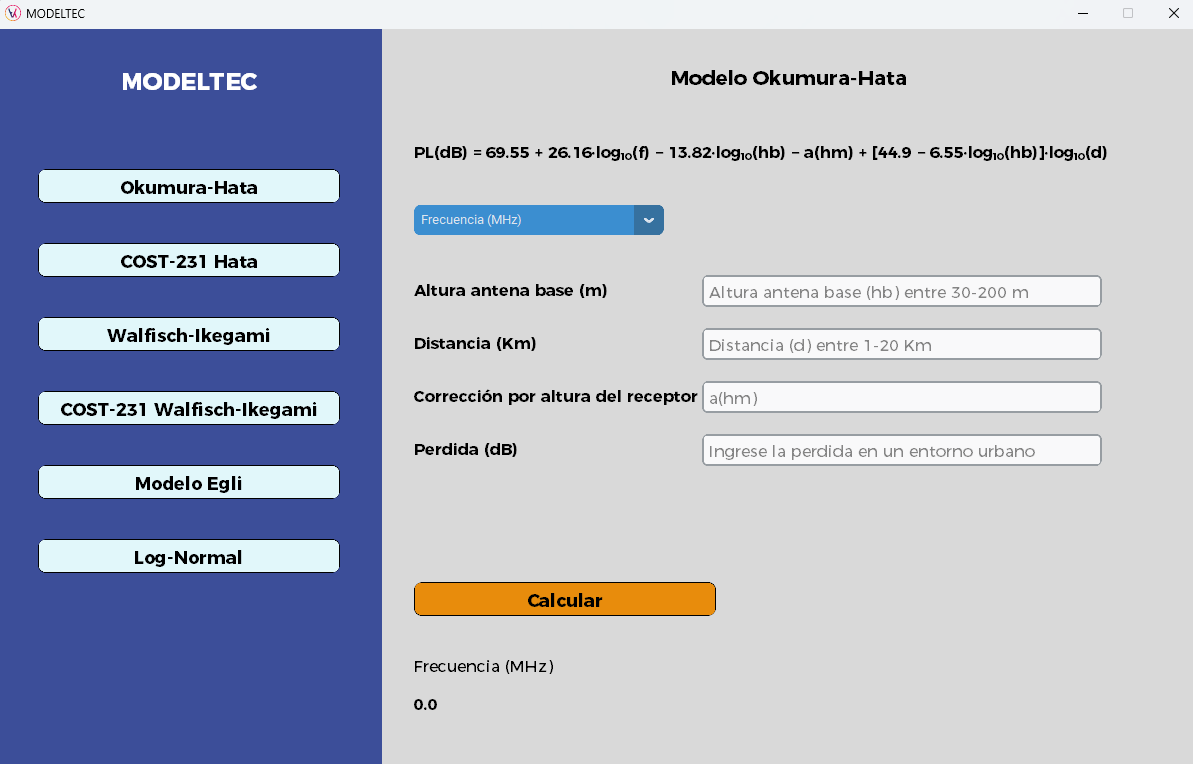
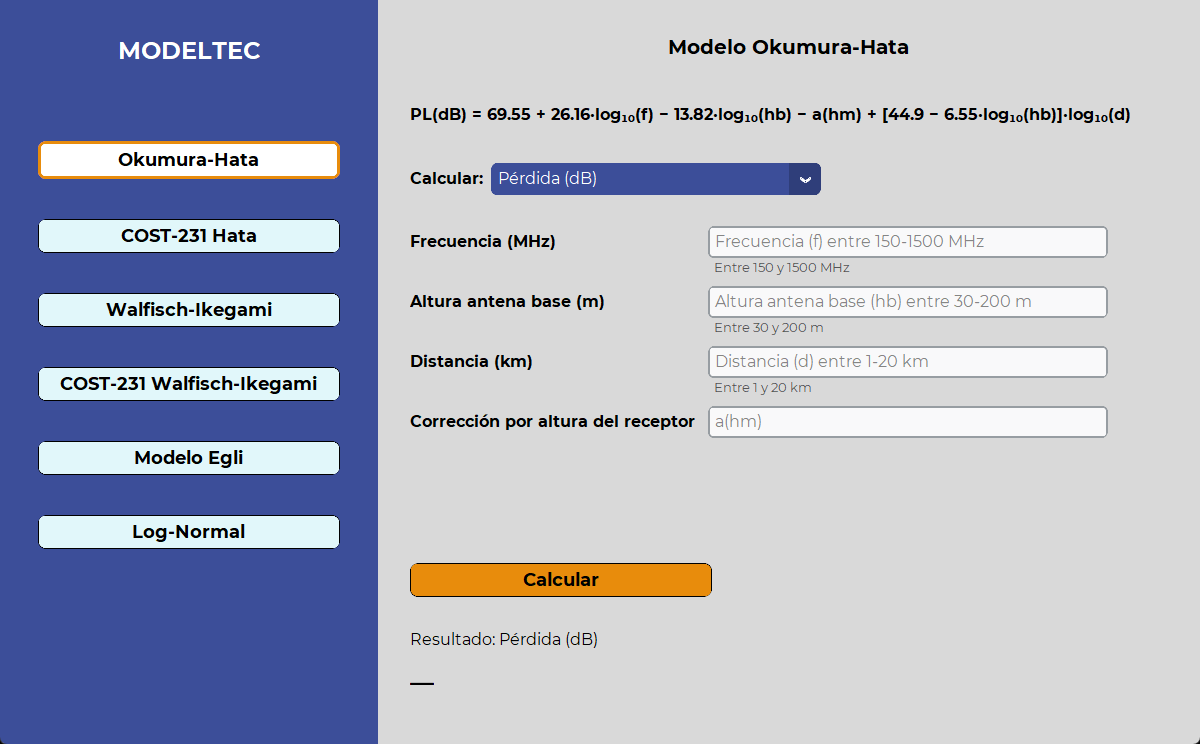
Documenta el proyecto: README completo, .gitignore y captura actualizada

Changed region(s): [[0.0, 0.0, 1.0, 1.0], [0.9925, 0.9892, 1.0, 1.0]]

diff --git a/README.md b/README.md
@@ -8,47 +8,96 @@
 
 ## 📡 Descripción
 
-Este proyecto implementa diversos **modelos de propagación de ondas** para telecomunicaciones, incluyendo:
+**MODELTEC** es una aplicación de escritorio en Python que calcula la **pérdida de trayecto** (*path loss*) de una señal de radio con seis modelos de propagación usados en telecomunicaciones. Pensada para estudiantes, investigadores y profesionales que trabajan en diseño y análisis de redes inalámbricas.
 
-- COST-231 Hata  
-- Walfisch-Ikegami  
-- Egli  
-- Log-Normal  
-- Okumura  
-
-La aplicación permite calcular pérdidas de propagación en diferentes escenarios, facilitando el análisis y comparación entre modelos. Está pensado para estudiantes, investigadores y profesionales que trabajan en diseño y análisis de redes inalámbricas.
-
----
-
-## 🎯 Objetivos
-
-- Proporcionar una herramienta práctica para estudiar modelos de propagación.
-- Facilitar la comparación entre diferentes modelos mediante una interfaz gráfica amigable.
-- Permitir el análisis visual con gráficas y reportes automáticos.
-- Servir como base para aprender Python aplicado a telecomunicaciones y GUI.
-
----
-
-## 🚀 Funcionalidades
-
-- Cálculo automático según modelo seleccionado.
-- Interfaz gráfica interactiva con CustomTkinter.
-- Soporte para distintas variables (frecuencia, distancia, altura, etc).
-- Validación básica de entradas.
-- Visualización de resultados en pantalla.
-
----
-
-## 📸 Capturas de pantalla
+Además de calcular la pérdida (PL), cada modelo permite **despejar cualquier otra variable** (frecuencia, distancia, altura de antena…) a partir de la pérdida conocida.
 
 ![Pantalla principal](./screen.png)
 
 ---
 
+## 📶 Modelos incluidos
+
+| Modelo | Fórmula | Rango de validez en la app |
+|---|---|---|
+| **Okumura-Hata** | `69.55 + 26.16·log f − 13.82·log hb − a(hm) + (44.9 − 6.55·log hb)·log d` | f 150–1500 MHz · hb 30–200 m · d 1–20 km |
+| **COST-231 Hata** | `46.3 + 33.9·log f − 13.82·log hb − a(hm) + (44.9 − 6.55·log hb)·log d + C` | f 1500–2000 MHz · hb 30–200 m · d 1–20 km · C 0–3 dB |
+| **Walfisch-Ikegami** | `PL = L₀ + Lᵣₜₛ + Lₘₛd` | Suma de los tres términos (los ingresa el usuario) |
+| **COST-231 Walfisch-Ikegami** (línea de vista) | `42.6 + 26·log d + 20·log f` | f 800–2000 MHz · d 0.02–5 km |
+| **Egli** | `K + 20·log f + 40·log d − 20·log ht − a·log hr` | f 30–3000 MHz · ht 3–200 m · hr 1–50 m · d 0.1–20 km |
+| **Log-Normal** | `PL(d₀) + 10·n·log(d/d₀) + Xσ` | d₀ 0.01–1 km · d 0.01–20 km · n 1–6 · Xσ ±20 dB |
+
+Notas:
+
+- Todos los logaritmos son de base 10. Frecuencia en MHz, distancias en km, alturas en m, pérdidas en dB.
+- **Egli:** hr ≤ 10 m → K = 76.3 y a = 10; hr > 10 m → K = 85.9 y a = 20. (La constante 117 corresponde a la formulación original en millas y pies.)
+- **Okumura-Hata y COST-231 Hata:** `a(hm)` (corrección por altura del receptor) se ingresa como dato.
+- **COST-231 Hata:** C = 0 dB para ciudades medianas y suburbios, 3 dB para centros metropolitanos.
+- **Log-Normal:** `Xσ` es un valor que ingresa el usuario, no se genera aleatoriamente.
+
+---
+
+## 🚀 Funcionalidades
+
+- Seis modelos de propagación con su fórmula a la vista.
+- Selector **"Calcular:"** para elegir qué variable despejar (por defecto, la pérdida).
+- Resultado grande y con unidad (`126.35 dB`). **Enter** también calcula.
+- Acepta la coma decimal (`1,5`).
+- Validación dentro del formulario: el campo con problema se marca en rojo con el motivo y el rango válido; bajo cada campo se muestra su rango como ayuda.
+- Aviso claro cuando un cálculo no es posible (por ejemplo, una división entre cero).
+- Tipografía Montserrat incluida en el proyecto (no hace falta instalarla).
+
+---
+
 ## 🛠 Instalación y uso
 
-1. Clona el repositorio:
+Requisitos: **Python 3.10+** con `tkinter` (incluido en la instalación estándar de Python para Windows y macOS).
 
 ```bash
 git clone https://github.com/Yasmani-Vinamagua/modelos-propagacion-ondas.git
 cd modelos-propagacion-ondas
+
+pip install -r requirements.txt
+
+python "modulos python/main.py"
+```
+
+> `requirements.txt` fija `customtkinter 5.2.0` y `numpy 1.24.3`, que requieren una versión de Python compatible (3.10 a 3.11 para esa versión de numpy). La aplicación y sus pruebas también se ejecutaron con Python 3.14, customtkinter 6 y numpy 2.
+
+---
+
+## 🧪 Pruebas
+
+```bash
+python -m pytest
+```
+
+Las pruebas no abren ventanas. Comprueban cada modelo (valores de referencia calculados aparte), que despejar cada variable devuelva el valor original y el comportamiento de la validación.
+
+---
+
+## 🗂 Estructura
+
+```
+modulos python/
+├── main.py            Ventana principal y navegación entre modelos
+├── ventana.py         Distribución de la ventana
+├── estilos.py         Colores, fuentes y estilos de los widgets
+├── modelo_base.py     Clase base: menú, formulario, validación y errores
+├── mod_*.py           Un archivo por modelo (variables y fórmula)
+└── fuentes/           Montserrat (licencia SIL OFL 1.1)
+tests/                 Pruebas con pytest
+```
+
+### Agregar un modelo
+
+1. Crea `mod_nuevo.py` con una clase que herede de `ModeloBase`.
+2. Define `variables = {nombre: (mínimo, máximo, ayuda)}`. Con mínimo y máximo en 0, la variable no se valida (por ejemplo, la pérdida).
+3. Implementa `calcular(self, v)`: devuelve el valor de la variable que está en `self.seleccion_modelo`, usando las demás de `v`.
+4. Regístralo en `main.py` (ecuación y clase).
+
+---
+
+## 📄 Licencia
+
+MIT, según la insignia de este repositorio. La tipografía Montserrat se distribuye bajo la licencia SIL Open Font License 1.1 (`modulos python/fuentes/OFL.txt`).
